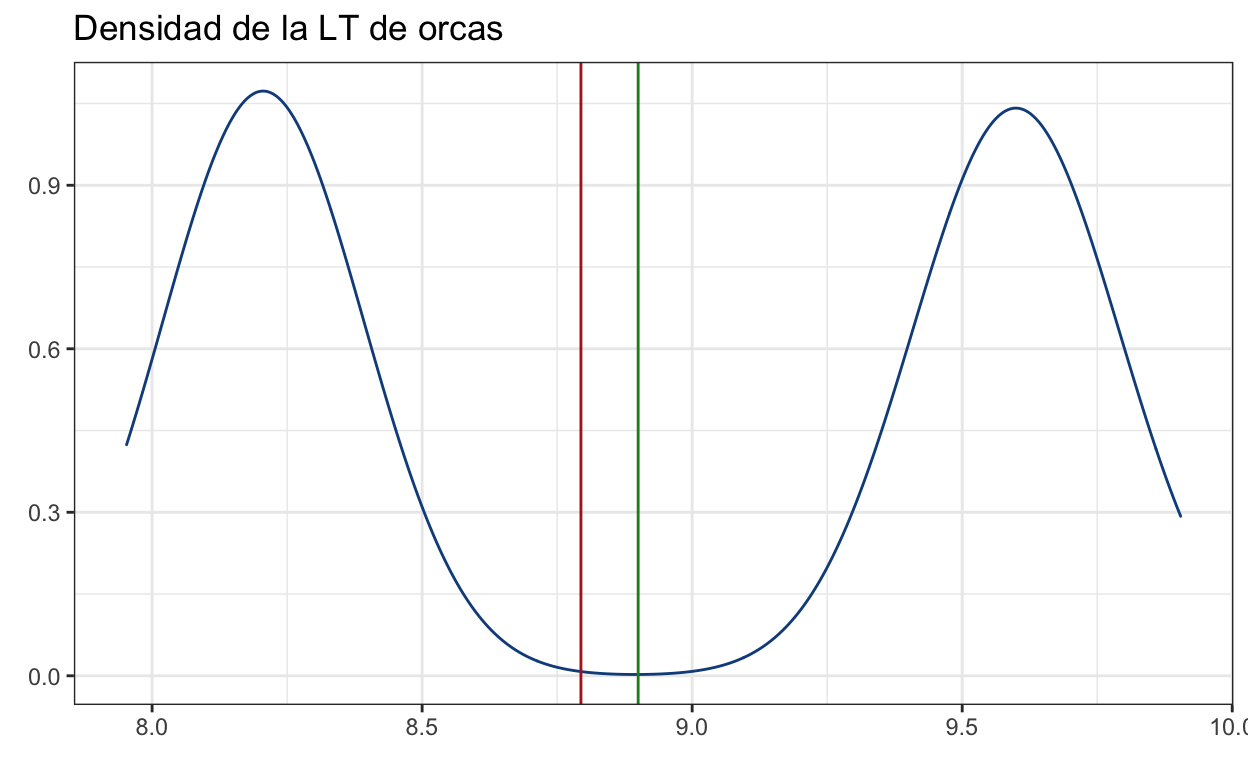
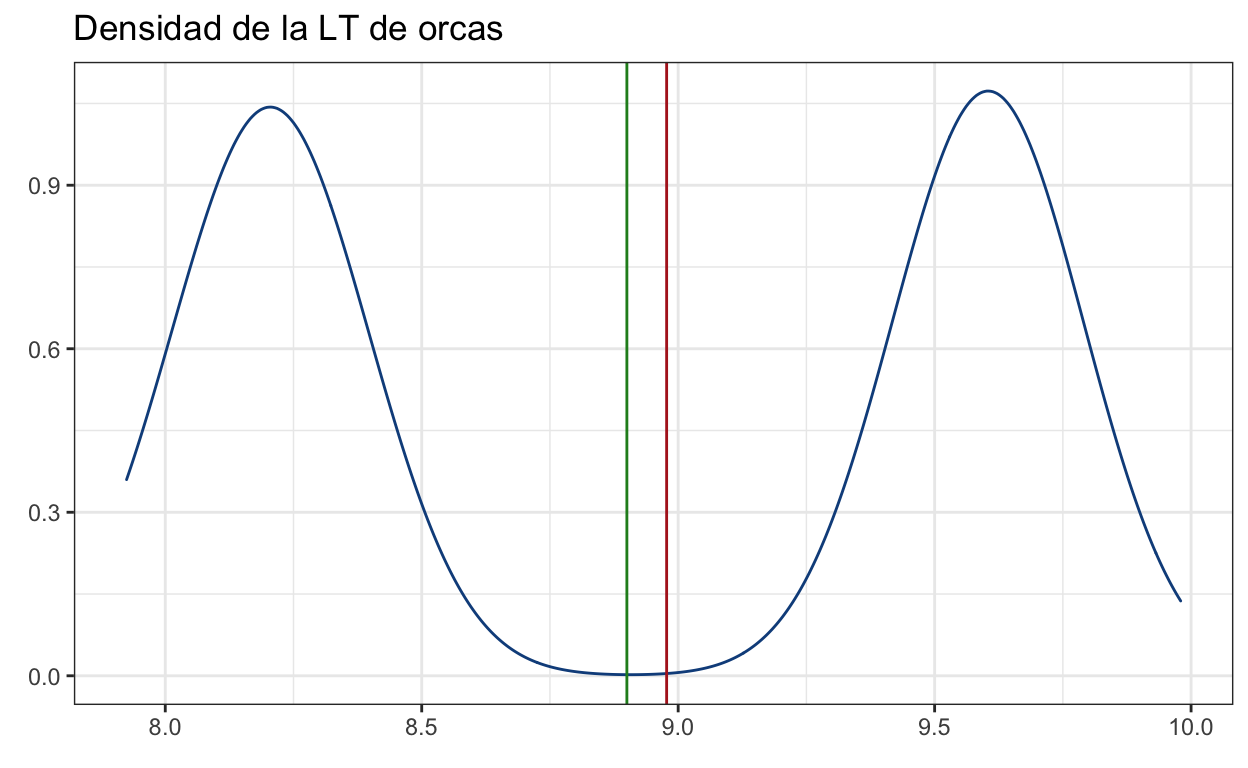
finished nlm

diff --git a/docs/c03_probabilidad.html b/docs/c03_probabilidad.html
@@ -2273,11 +2273,11 @@ términos de frecuencias:</p>
 <pre><code>   Intervalo Frecuencia    Lims
 1    (0,0.1]         NA   0:0.1
 2  (0.1,0.2]         NA 0.1:0.2
-3  (0.2,0.3]          3 0.2:0.3
-4  (0.3,0.4]          5 0.3:0.4
-5  (0.4,0.5]        302 0.4:0.5
-6  (0.5,0.6]        187 0.5:0.6
-7  (0.6,0.7]          1 0.6:0.7
+3  (0.2,0.3]          5 0.2:0.3
+4  (0.3,0.4]         19 0.3:0.4
+5  (0.4,0.5]        236 0.4:0.5
+6  (0.5,0.6]        238 0.5:0.6
+7  (0.6,0.7]         NA 0.6:0.7
 8  (0.7,0.8]         NA 0.7:0.8
 9  (0.8,0.9]         NA 0.8:0.9
 10   (0.9,1]         NA   0.9:1</code></pre>
@@ -2538,13 +2538,13 @@ intervalos de confianza y el valor de la media.</p>
     One Sample t-test
 
 data:  norm.var$var
-t = 960.89, df = 9999, p-value &lt; 2.2e-16
+t = 949.25, df = 9999, p-value &lt; 2.2e-16
 alternative hypothesis: true mean is not equal to 0
 95 percent confidence interval:
- 66.92175 67.19534
+ 66.81832 67.09485
 sample estimates:
 mean of x 
- 67.05854 </code></pre>
+ 66.95659 </code></pre>
 </div>
 <p>Otra forma de calcularlos es utilizando la librería
 <code>Rmisc</code>:</p>
@@ -2566,7 +2566,7 @@ hace unos momentos:</p>
 </code></pre>
 </div>
 <pre><code>   upper     mean    lower 
-67.19534 67.05854 66.92175 </code></pre>
+67.09485 66.95659 66.81832 </code></pre>
 </div>
 <p>Como vemos, la función calcula los intervalos de confianza utilizando
 la distribución T. Esto se debe a que es el modo más común de realizar
@@ -2600,7 +2600,7 @@ anterior:</p>
 </code></pre>
 </div>
 <pre><code>   .id     n Mean Conf.level Trad.lower Trad.upper
-1 &lt;NA&gt; 10000 67.1       0.95       66.9       67.2</code></pre>
+1 &lt;NA&gt; 10000   67       0.95       66.8       67.1</code></pre>
 </div>
 <p>Vemos que la salida es un poco más compleja; sin embargo, lo más
 relevante es que los intervalos son sumamente cercanos a los que

diff --git a/docs/c04_muestreo.html b/docs/c04_muestreo.html
@@ -2371,12 +2371,12 @@ haga lo demás:</p>
 <span class='va'>ind</span>
 </code></pre>
 </div>
-<pre><code>[1] 842</code></pre>
+<pre><code>[1] 418</code></pre>
 <div class="sourceCode">
 <pre class="sourceCode r"><code class="sourceCode r"><span class='va'>pobl</span><span class='op'>$</span><span class='va'>lt</span><span class='op'>[</span><span class='va'>ind</span><span class='op'>]</span>
 </code></pre>
 </div>
-<pre><code>[1] 8.222414</code></pre>
+<pre><code>[1] 9.678883</code></pre>
 </div>
 <p>Aquí lo que hicimos fue tomar un individuo de nuestra población de
 manera uniformemente “aleatoria”, en este caso el número 267 y medirlo.
@@ -2389,7 +2389,7 @@ nosotros quienes lo hacemos):</p>
 <span class='fu'><a href='https://rdrr.io/r/utils/head.html'>head</a></span><span class='op'>(</span><span class='va'>muestras</span><span class='op'>)</span>
 </code></pre>
 </div>
-<pre><code>[1] 8.155072 8.212367 8.320339 9.500353 9.704534 8.185078</code></pre>
+<pre><code>[1] 9.602550 9.555470 8.144895 9.706600 9.621252 9.469719</code></pre>
 </div>
 <p>Notarás dos cosas: 1) no sabemos a qué individuos corresponden esas
 muestras, lo cual sería problemático si no tuviéramos 2) el argumento
@@ -2409,7 +2409,7 @@ podemos realizar la estimación de nuestro promedio (media):</p>
 <pre class="sourceCode r"><code class="sourceCode r"><span class='fu'><a href='https://rdrr.io/r/base/mean.html'>mean</a></span><span class='op'>(</span><span class='va'>muestras</span><span class='op'>)</span>
 </code></pre>
 </div>
-<pre><code>[1] 8.794043</code></pre>
+<pre><code>[1] 8.97752</code></pre>
 </div>
 <p>Pongámosla en nuestro gráfico inicial como una línea vertical para
 ver en dónde quedó:</p>

diff --git a/docs/c10_no_lineal.html b/docs/c10_no_lineal.html
@@ -2124,10 +2124,8 @@ supuesto de linealidad</a></li>
 (1938)</a></li>
 </ul></li>
 <li><a href="#bootstrap-e-intervalos-de-confianza">Bootstrap e
-Intervalos de Confianza</a>
-<ul>
+Intervalos de Confianza</a></li>
 <li><a href="#relación-talla-peso">Relación Talla-Peso</a></li>
-</ul></li>
 <li><a href="#ejercicio">Ejercicio</a></li>
 </ul>
 </nav>
@@ -2238,7 +2236,7 @@ integramos esta ecuación, obtenemos:</p>
 L(t) = L_\infty(1-e^{-K(t-t_0)})
 \]</span></p>
 <p>En donde el parámetro <span class="math inline">\(t_0\)</span> se
-incluye para ajustar la ecuación para la talla inicial del organismoa y
+incluye para ajustar la ecuación para la talla inicial del organismo, y
 se interpreta como la edad a la cual el organismo tendría tamaño 0. Este
 modelo, entonces, consta de 3 parámetros (<span
 class="math inline">\(L_\infty\)</span>, <span
@@ -2541,7 +2539,7 @@ estimados con bootstrap:</p>
 </div>
 <p><img src="c10_no_lineal_files/figure-html5/unnamed-chunk-17-1.png" width="624" /></p>
 </div>
-<h3 id="relación-talla-peso">Relación Talla-Peso</h3>
+<h2 id="relación-talla-peso">Relación Talla-Peso</h2>
 <p>En el caso anterior modelamos la tasa de crecimento individual
 (aunque puede ser cualquier otro crecimiento), pero otra aplicación
 interesante es modelar la relación talla-peso de alguna especie. Aunque
